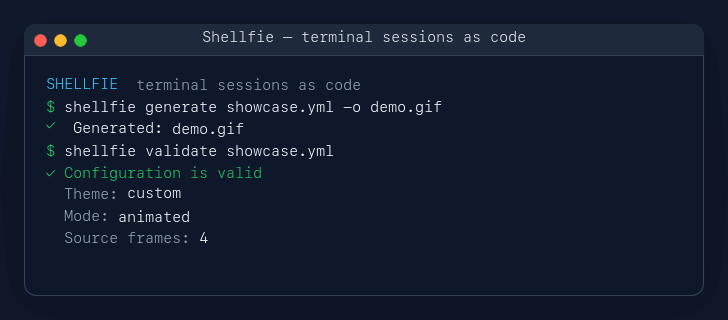
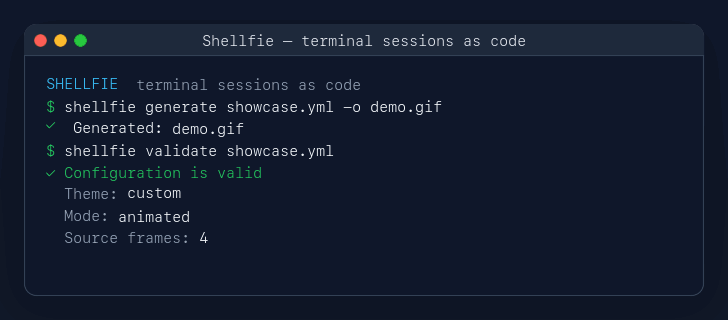
Center raster window titles

Changed region(s): [[0.272, 0.0938, 0.7253, 0.1562]]

diff --git a/lib/shellfie/rendering/window_chrome.rb b/lib/shellfie/rendering/window_chrome.rb
@@ -164,7 +164,7 @@ module Shellfie
         max_x = geometry[:margin] + geometry[:scaled_width] - reserve_right - title_width
         centered_x = geometry[:margin] + (geometry[:scaled_width] - title_width) / 2
         x = title_x(min_x, max_x, centered_x)
-        y = geometry[:margin] + geometry[:scaled_title_bar] / 2 + scaled_font_size / 3
+        y = geometry[:margin] + geometry[:scaled_title_bar] / 2 + (scaled_font_size * 0.6).round
 
         draw_text(convert, title, x, y - scaled_font_size, theme.colors[:title_text], scaled_font_size, geometry[:font_config])
       end
